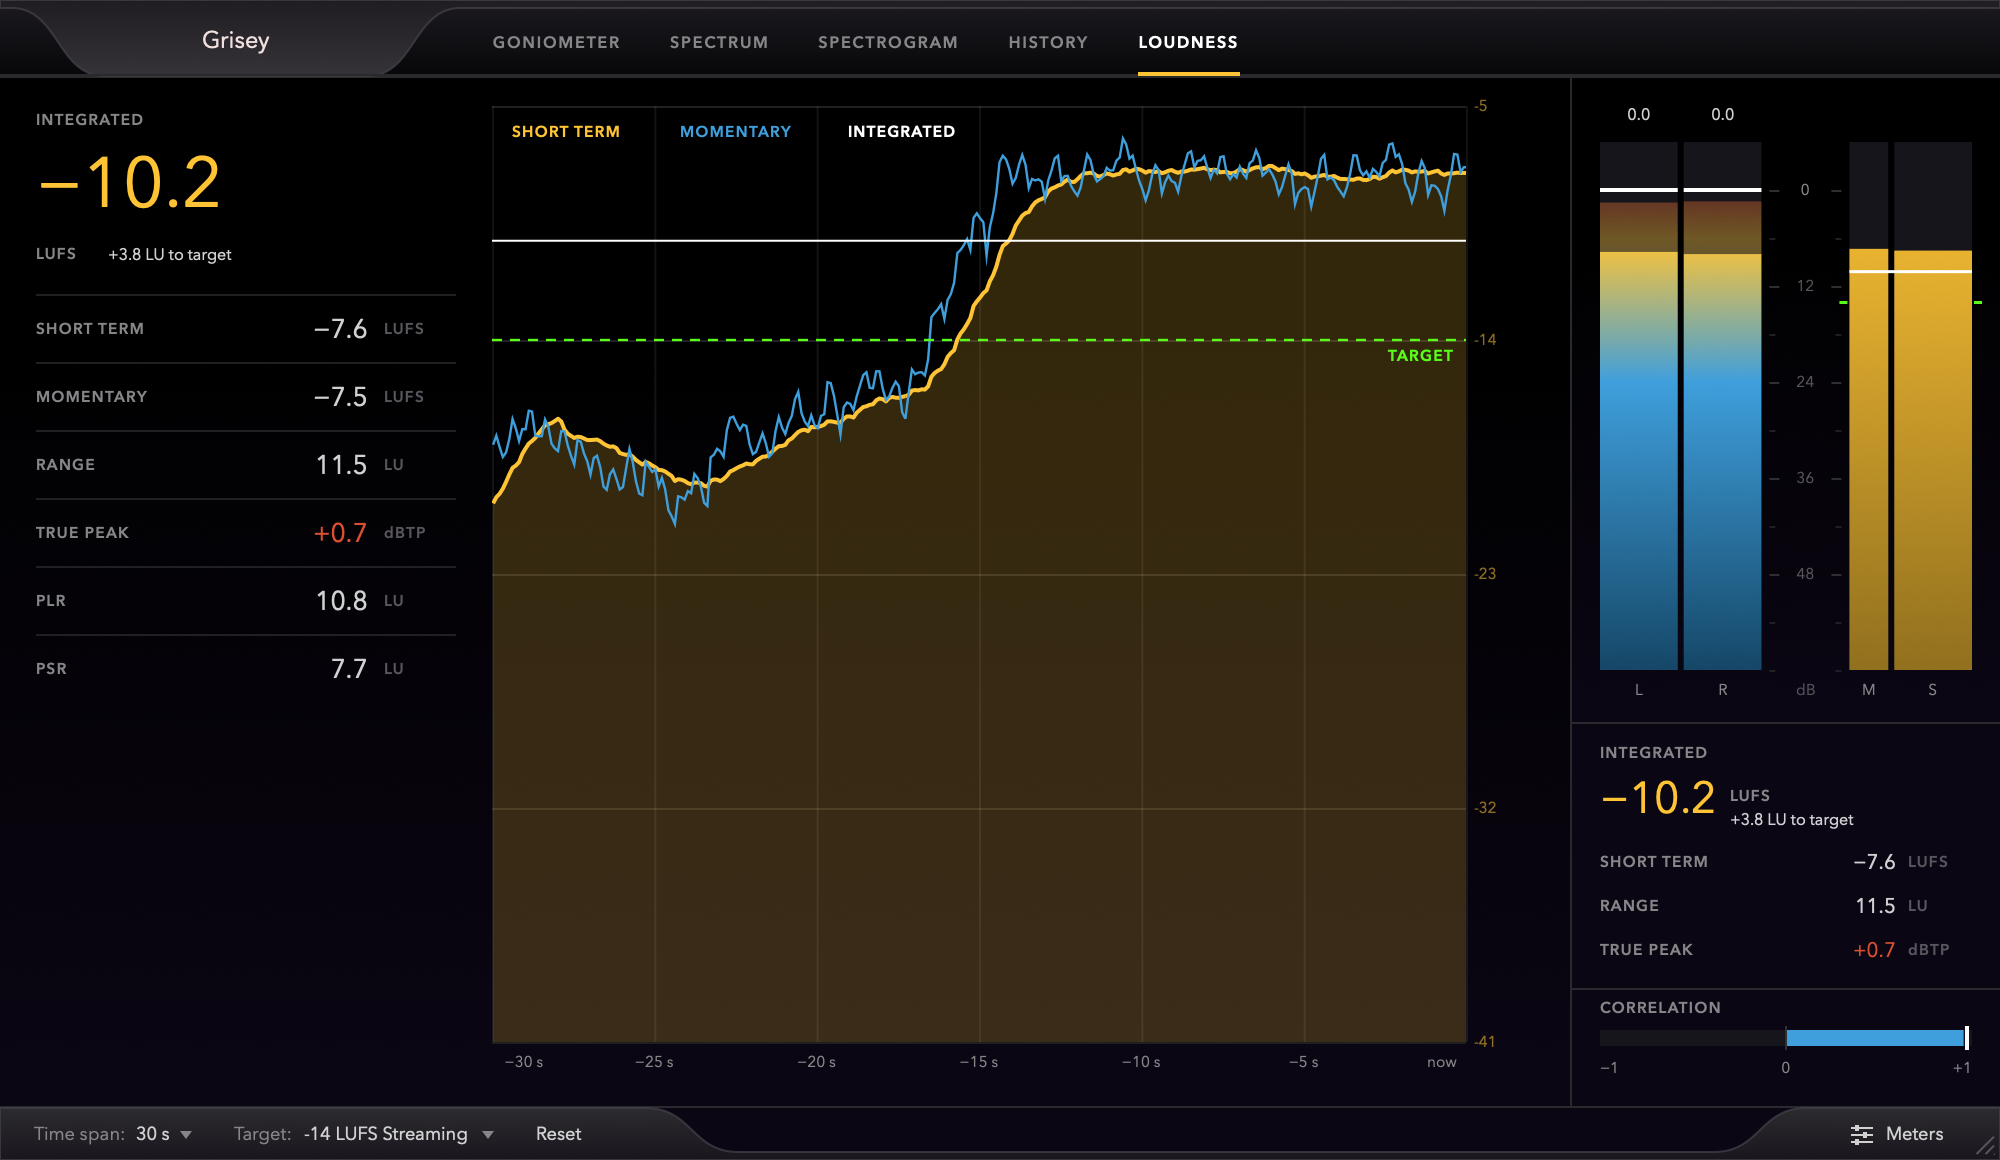
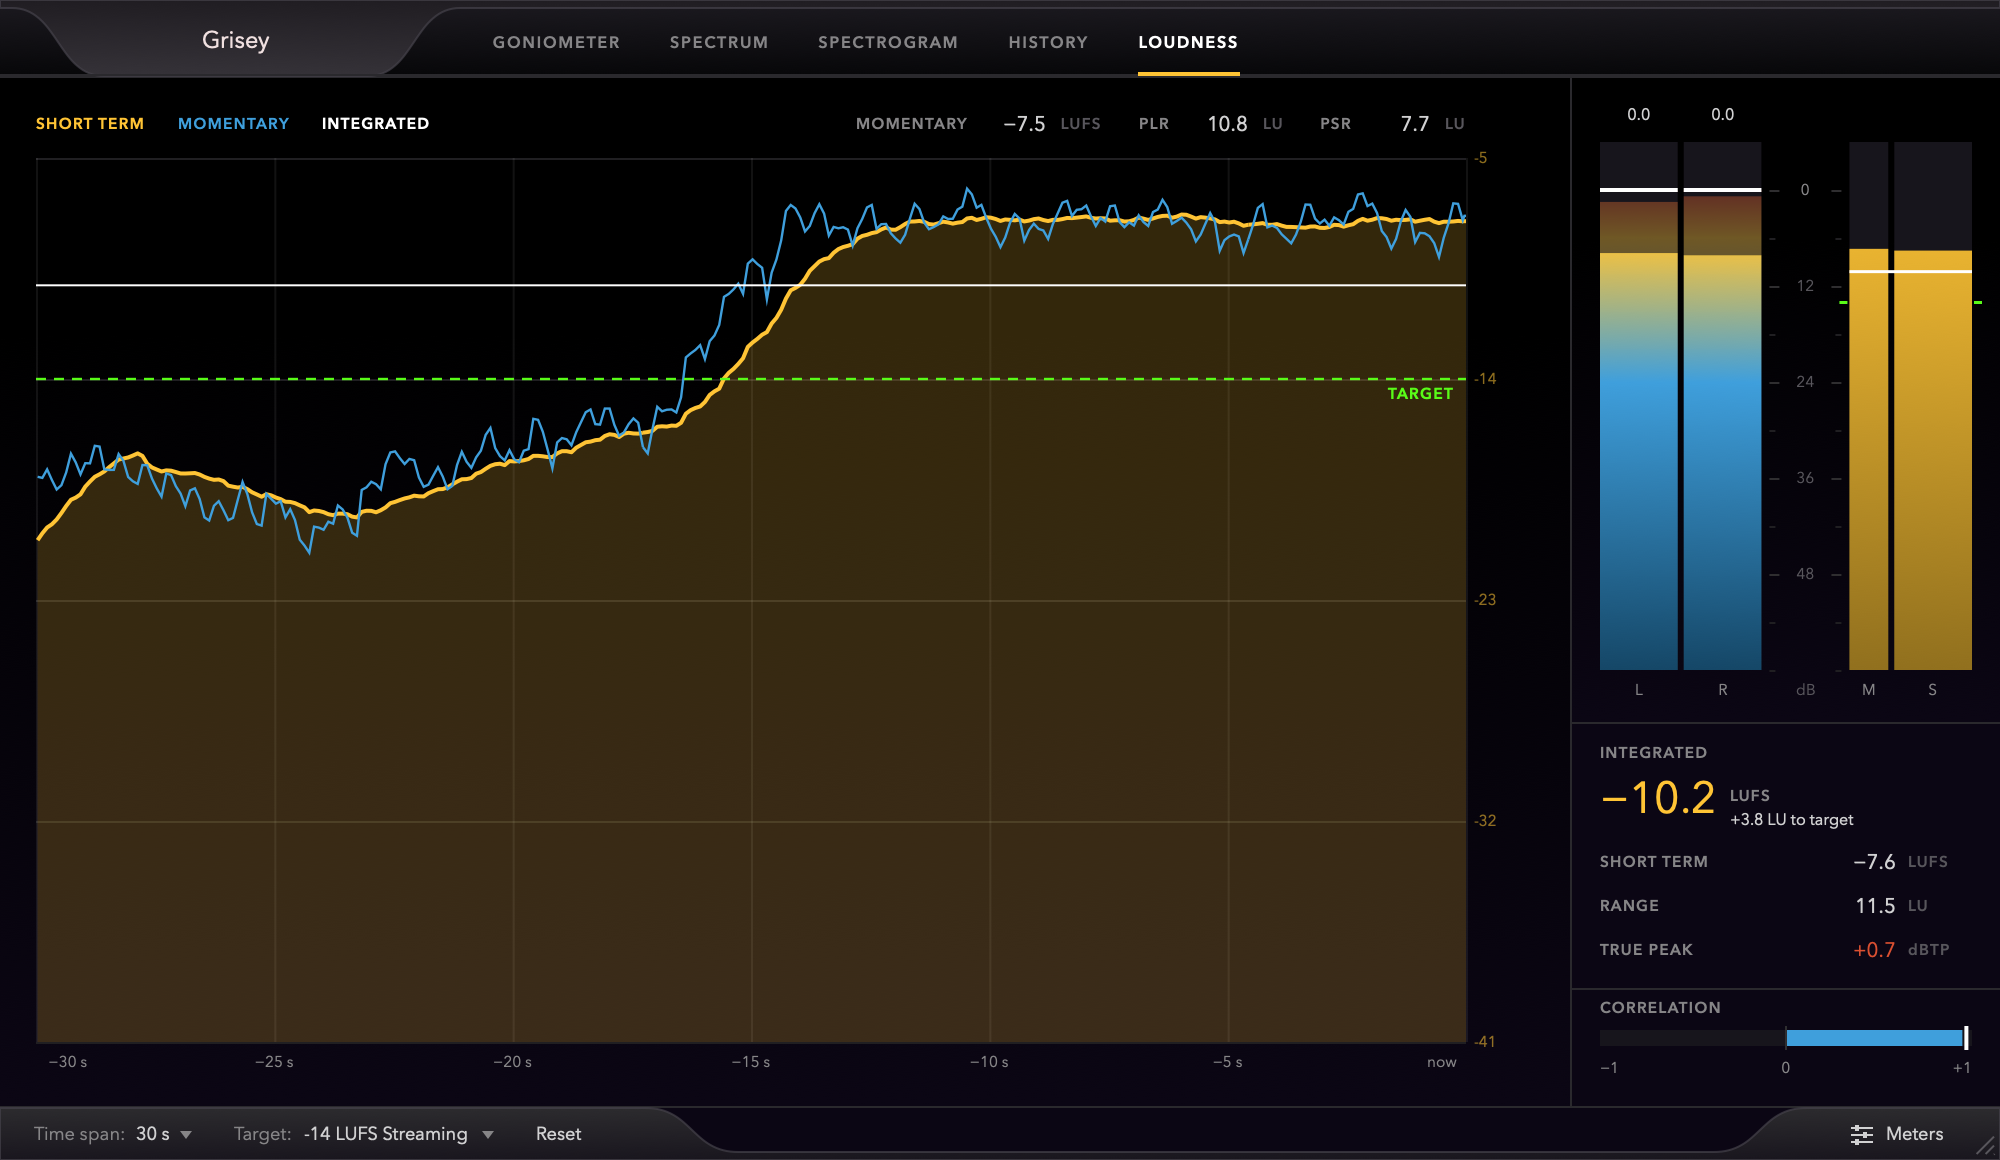
Show each loudness reading in one place
The loudness view had a panel of numbers of its own, and four of its seven
readings were also in the side column, which is always showing: the integrated
and the short-term loudness, the range and the true peak. They were on the
screen twice, a hand's width apart.

The view now has only the readings that are its own, the momentary loudness,
the PLR and the PSR, in a line above the graph with the names of the curves,
which used to lie over the curves of a loud master. The graph takes the width
that the panel had. It fits at the smallest size of the window.

diff --git a/Source/Views/LoudnessView.cpp b/Source/Views/LoudnessView.cpp
@@ -26,8 +26,8 @@ void LoudnessView::paint(juce::Graphics& g)
     Theme::fillDisplay(g, getLocalBounds());
 
     auto area = getLocalBounds().reduced(18, 14);
-    paintReadouts(g, area.removeFromLeft(210));
-    area.removeFromLeft(18);
+    paintHeader(g, area.removeFromTop(18));
+    area.removeFromTop(8);
     paintHistory(g, area);
 }
 
@@ -82,72 +82,73 @@ float LoudnessView::getReferenceLufs() const
     return target < 0.f ? target : -23.f;
 }
 
-void LoudnessView::paintReadouts(juce::Graphics& g, juce::Rectangle<int> area)
+void LoudnessView::paintHeader(juce::Graphics& g, juce::Rectangle<int> area)
 {
+    // The header ends where the plot does, short of the labels of the scale
+    area.removeFromRight(scaleWidth);
+
+    const auto labelFont = Theme::labelFont();
+    const auto valueFont = Theme::font(14.f);
+
+    // The readings that only this view has, from the right. The integrated and the short-term loudness,
+    // the range and the true peak are in the side column, whichever view is showing, so they are not
+    // repeated here.
     const bool hasIntegrated = isLoudness(shown.readings.integrated);
     const bool hasShortTerm = isLoudness(shown.readings.shortTerm);
     const bool hasTruePeak = shown.maxTruePeak > -150.f;
 
-    // The integrated loudness is the reading that a delivery is judged by, so it is the largest
-    auto top = area.removeFromTop(84);
-    g.setFont(Theme::labelFont());
-    g.setColour(Theme::textDim);
-    g.drawText("INTEGRATED", top.removeFromTop(14), juce::Justification::centredLeft);
-
-    g.setFont(Theme::font(48.f));
-    g.setColour(Theme::accent);
-    g.drawText(format(shown.readings.integrated, hasIntegrated), top.removeFromTop(50), juce::Justification::centredLeft);
-
-    g.setFont(Theme::labelFont());
-    g.setColour(Theme::textDim);
-    auto unitRow = top;
-    g.drawText("LUFS", unitRow.removeFromLeft(36), juce::Justification::centredLeft);
-
-    if (hasIntegrated && target < 0.f)
-    {
-        g.setFont(Theme::font(11.f));
-        g.setColour(Theme::text);
-        g.drawText(Theme::formatDb(shown.readings.integrated - target, -1000.f) + " LU to target", unitRow, juce::Justification::centredLeft);
-    }
-
-    // The other readings share a table
-    struct Row
+    struct Readout
     {
         const char* name;
         juce::String value;
         const char* unit;
-        bool warn;
     };
 
-    const Row rows[] {
-        { "SHORT TERM", format(shown.readings.shortTerm, hasShortTerm), "LUFS", false },
-        { "MOMENTARY", format(shown.readings.momentary, isLoudness(shown.readings.momentary)), "LUFS", false },
-        { "RANGE", format(shown.readings.range, isLoudness(shown.readings.rangeLow)), "LU", false },
-        // A true peak keeps its sign, because whether it is over or under full scale is the point of it
-        { "TRUE PEAK", Theme::formatDb(hasTruePeak ? shown.maxTruePeak : -2000.f, -1000.f), "dBTP", hasTruePeak && shown.maxTruePeak > truePeakLimitDb },
-        { "PLR", format(shown.maxTruePeak - shown.readings.integrated, hasTruePeak && hasIntegrated), "LU", false },
-        { "PSR", format(shown.recentTruePeak - shown.readings.shortTerm, shown.recentTruePeak > -150.f && hasShortTerm), "LU", false },
+    const Readout readouts[] {
+        { "PSR", format(shown.recentTruePeak - shown.readings.shortTerm, shown.recentTruePeak > -150.f && hasShortTerm), "LU" },
+        { "PLR", format(shown.maxTruePeak - shown.readings.integrated, hasTruePeak && hasIntegrated), "LU" },
+        { "MOMENTARY", format(shown.readings.momentary, isLoudness(shown.readings.momentary)), "LUFS" },
     };
 
-    area.removeFromTop(10);
-    const int rowHeight = juce::jmin(34, area.getHeight() / (int)std::size(rows));
-
-    for (const auto& row : rows)
+    for (const auto& readout : readouts)
     {
-        auto line = area.removeFromTop(rowHeight);
-
-        g.setColour(Theme::grid);
-        g.fillRect(line.removeFromTop(1));
-
-        g.setFont(Theme::labelFont());
-        g.setColour(Theme::textDim);
-        g.drawText(row.name, line.removeFromLeft(90), juce::Justification::centredLeft);
+        g.setFont(labelFont);
         g.setColour(Theme::textFaint);
-        g.drawText(row.unit, line.removeFromRight(36), juce::Justification::centredLeft);
+        g.drawText(readout.unit, area.removeFromRight(Theme::textWidth(labelFont, readout.unit) + 2), juce::Justification::centredRight);
 
-        g.setFont(Theme::font(18.f));
-        g.setColour(row.warn ? Theme::over : Theme::text);
-        g.drawText(row.value, line.withTrimmedRight(8), juce::Justification::centredRight);
+        g.setFont(valueFont);
+        g.setColour(Theme::text);
+        g.drawText(readout.value, area.removeFromRight(44).withTrimmedRight(5), juce::Justification::centredRight);
+
+        g.setFont(labelFont);
+        g.setColour(Theme::textDim);
+        g.drawText(readout.name, area.removeFromRight(Theme::textWidth(labelFont, readout.name) + 2), juce::Justification::centredRight);
+
+        area.removeFromRight(16);
+    }
+
+    // Name the lines of the graph in their colors, in what is left
+    struct Line
+    {
+        const char* name;
+        juce::Colour colour;
+    };
+
+    const Line lines[] {
+        { "SHORT TERM", Theme::accent },
+        { "MOMENTARY", Theme::second },
+        { "INTEGRATED", juce::Colours::white },
+    };
+
+    g.setFont(labelFont);
+    for (const auto& line : lines)
+    {
+        const int width = Theme::textWidth(labelFont, line.name) + 16;
+        if (width > area.getWidth())
+            break;
+
+        g.setColour(line.colour);
+        g.drawText(line.name, area.removeFromLeft(width), juce::Justification::centredLeft);
     }
 }
 
@@ -156,7 +157,7 @@ void LoudnessView::paintHistory(juce::Graphics& g, juce::Rectangle<int> area)
     const float reference = getReferenceLufs();
     const float top = reference + rangeAboveTarget, bottom = reference - rangeBelowTarget;
 
-    auto plot = area.withTrimmedRight(34).withTrimmedBottom(18).toFloat();
+    auto plot = area.withTrimmedRight(scaleWidth).withTrimmedBottom(18).toFloat();
     auto yOf = [&](float lufs) { return juce::jmap(juce::jlimit(bottom, top, lufs), bottom, top, plot.getBottom(), plot.getY()); };
 
     // Draw a grid line every 9 LU, and label the levels down the right
@@ -264,14 +265,4 @@ void LoudnessView::paintHistory(juce::Graphics& g, juce::Rectangle<int> area)
             g.drawText("TARGET", plot.toNearestInt().withY(juce::roundToInt(y) + 2).withHeight(12).reduced(6, 0), juce::Justification::centredRight);
         }
     }
-
-    // Name the lines in their colors
-    auto legend = plot.toNearestInt().withTrimmedLeft(10).withTrimmedTop(6).removeFromTop(14);
-    g.setFont(Theme::labelFont());
-    g.setColour(Theme::accent);
-    g.drawText("SHORT TERM", legend.removeFromLeft(84), juce::Justification::centredLeft);
-    g.setColour(Theme::second);
-    g.drawText("MOMENTARY", legend.removeFromLeft(84), juce::Justification::centredLeft);
-    g.setColour(juce::Colours::white);
-    g.drawText("INTEGRATED", legend.removeFromLeft(84), juce::Justification::centredLeft);
 }

diff --git a/Source/Views/LoudnessView.h b/Source/Views/LoudnessView.h
@@ -6,19 +6,17 @@
 #include "Timeline.h"
 
 //==============================================================================
-// Shows the readings of the LoudnessMeter and the TruePeakDetector as numbers, beside a
-// history of the short-term and the momentary loudness. The readings themselves are made
-// on the audio thread, this component only displays them. The history is on the shared
-// timeline, so it records whether the view is showing or not.
+// Shows a history of the short-term and the momentary loudness, beneath the readings that
+// only this view has: the momentary loudness, the PLR and the PSR. The other readings are in
+// the side column, whichever view is showing, so they are not repeated here. The readings
+// themselves are made on the audio thread, this component only displays them. The history is
+// on the shared timeline, so it records whether the view is showing or not.
 class LoudnessView : public juce::Component
 {
 public:
     // The graph reaches from 27 LU below the target to 9 LU above it, like the EBU +9 scale
     static constexpr float rangeBelowTarget = 27.f;
     static constexpr float rangeAboveTarget = 9.f;
-
-    // Most platforms ask for true peaks no higher than this
-    static constexpr float truePeakLimitDb = -1.f;
 
     LoudnessView();
 
@@ -47,8 +45,11 @@ private:
         float momentary = LoudnessMeter::silence;
     };
 
-    void paintReadouts(juce::Graphics& g, juce::Rectangle<int> area);
+    void paintHeader(juce::Graphics& g, juce::Rectangle<int> area);
     void paintHistory(juce::Graphics& g, juce::Rectangle<int> area);
+
+    // The room to the right of the plot for the labels of its scale
+    static constexpr int scaleWidth = 34;
 
     // The loudness at the middle of the graph's scale
     float getReferenceLufs() const;
@@ -57,8 +58,9 @@ private:
     float maxTruePeak = -200.f;
     float target = 0.f;
 
-    // What the numbers say: the readings as they were at the last readout. The side column shows
-    // some of the same readings, and takes them at the same moments, so the two always agree.
+    // What the numbers say: the readings as they were at the last readout. The side column takes
+    // its readings at the same moments, so a PLR is always of the true peak and the integrated
+    // loudness that are showing there.
     struct Readout
     {
         LoudnessMeter::Readings readings;
